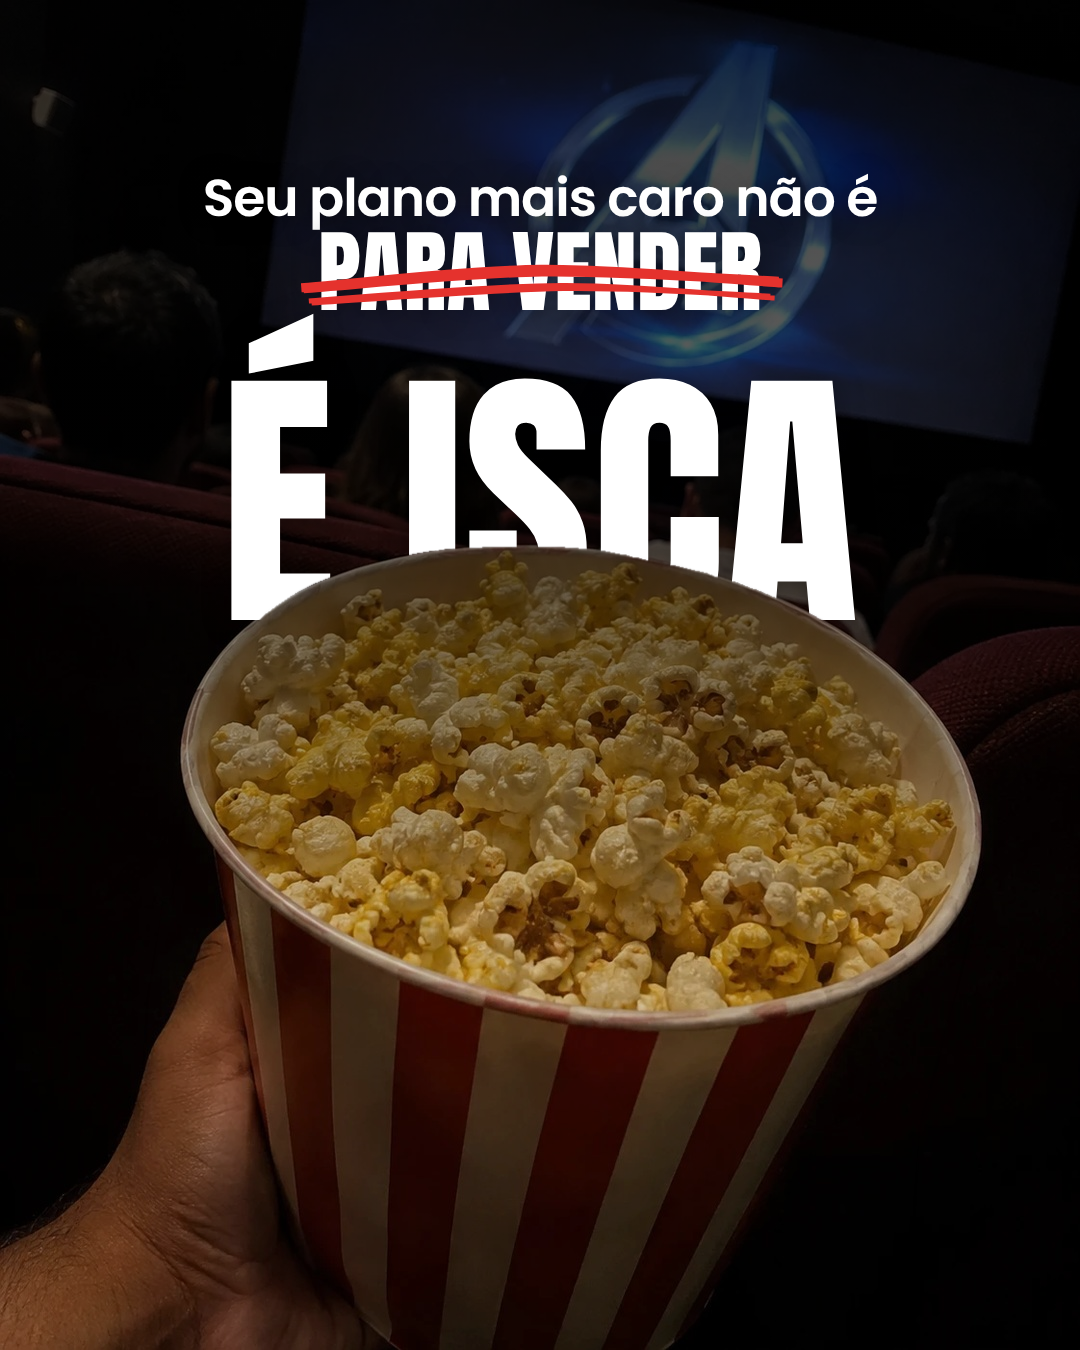
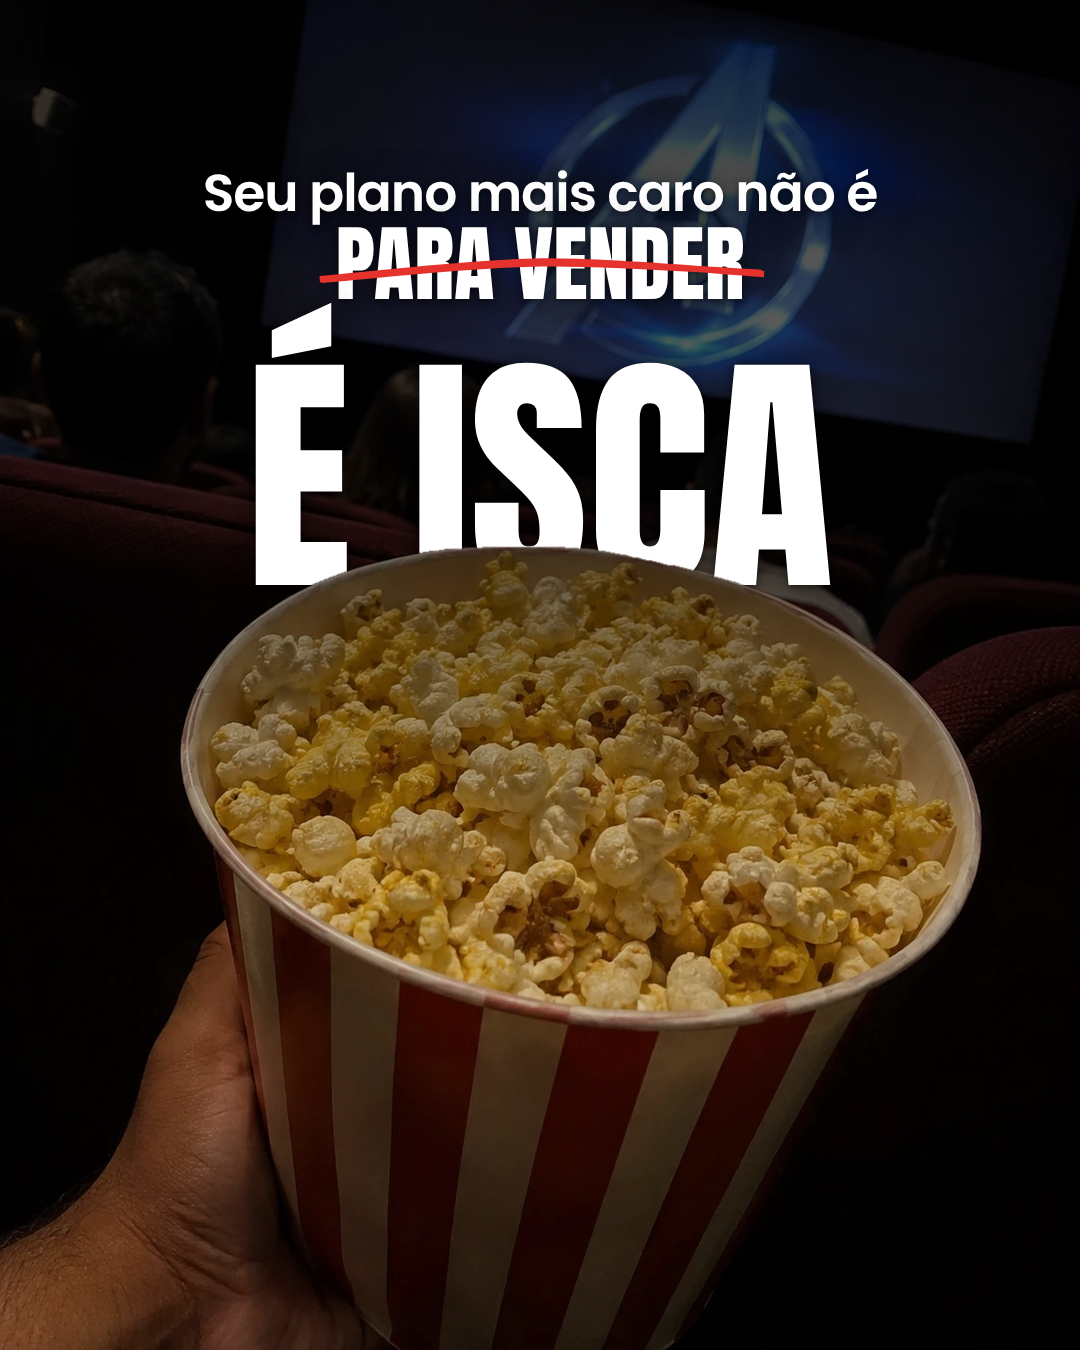
Legibilidade: ganchos em Poppins, subtítulos maiores, CTA com mais ênfase e capa 06 com menos sobreposição
Claude-Session: https://claude.ai/code/session_01CR2zLXebwu2nvAjBiSDjK9

Changed region(s): [[0.1833, 0.1244, 0.825, 0.4667]]

diff --git a/carrossel/index.html b/carrossel/index.html
@@ -107,8 +107,8 @@ body.render .frame .num{display:none}
 .pics{display:flex;gap:20px;margin-top:44px}
 .body.flow{top:150px;bottom:150px;left:128px;right:128px;justify-content:flex-start;padding-bottom:0}
 .flow .ttl{font-size:64px}
-.flow .st{font:600 31px/1.3 Poppins,sans-serif;letter-spacing:-.015em;color:var(--body);max-width:100%;margin-top:18px}
-.flow .txt{font-size:31px;margin-top:38px}
+.flow .st{font:500 36px/1.4 Poppins,sans-serif;letter-spacing:-.005em;color:var(--body);max-width:780px;margin-top:26px;text-wrap:pretty}
+.flow .txt{font-size:34px;margin-top:36px}
 .draw{position:relative;width:100%;flex:1 1 auto;min-height:220px;max-height:430px;margin:auto 0}
 .spacer{flex:1 1 auto}
 .man .m1{font:700 100px/1.06 Poppins,sans-serif;letter-spacing:-.05em;color:var(--ink);margin-top:40px}
@@ -162,8 +162,9 @@ body.render .frame .num{display:none}
 .ex .exl{display:block;font:600 16px/1 Poppins,sans-serif;letter-spacing:.32em;text-transform:uppercase;color:var(--ac);margin-bottom:12px}
 .ovl{position:absolute;left:0;top:0;width:1080px;height:1350px;z-index:6;pointer-events:none;overflow:visible}
 .ovl text{font-family:Caveat,cursive;font-weight:600}
-.gancho{position:relative;z-index:5;margin-top:36px;align-self:flex-start;padding-right:84px;font:600 44px/1.1 Caveat,cursive;color:var(--ink);opacity:.9;max-width:100%}
+.gancho{position:relative;z-index:5;margin-top:40px;align-self:flex-start;padding-right:96px;font:600 36px/1.25 Poppins,sans-serif;letter-spacing:-.015em;color:var(--ink);max-width:100%}
 .hc,.hu{position:relative;white-space:nowrap}
+.hc{margin:0 .35em}
 .pics.first{margin-top:0;margin-bottom:48px}
 .pic{flex:1;min-width:0;border-radius:22px;overflow:hidden;background:#e6e6e6}
 .pic img{width:100%;height:100%;object-fit:cover;display:block}
@@ -172,9 +173,9 @@ body.render .frame .num{display:none}
 /* CTA / resumo */
 .ctt{font:700 86px/1.14 Poppins,sans-serif;letter-spacing:-.04em;margin:0;color:var(--ink)}
 .ctt em{font-style:italic}
-.ctpre{font:500 50px/1.15 Poppins,sans-serif;letter-spacing:-.03em;color:var(--muted);margin-bottom:22px}
-.ctx{margin-top:40px;font:400 31px/1.42 Poppins,sans-serif;color:var(--muted);max-width:560px}
-.cta{margin-top:70px;font:700 31px Poppins,sans-serif;letter-spacing:-.01em;color:var(--ink)}
+.ctpre{font:600 58px/1.15 Poppins,sans-serif;letter-spacing:-.03em;color:var(--ink);opacity:.62;margin-bottom:24px}
+.ctx{margin-top:44px;font:500 35px/1.4 Poppins,sans-serif;color:var(--body);max-width:720px}
+.cta{margin-top:60px;font:700 40px/1.3 Poppins,sans-serif;letter-spacing:-.015em;color:var(--ink);background:var(--exbg);border-radius:22px;padding:34px 40px}
 .cta em{color:var(--ac)}
 .avatar{width:132px;height:132px;border-radius:50%;overflow:hidden;margin-bottom:40px;border:4px solid var(--bg);box-shadow:0 0 0 2px var(--ac)}
 .avatar img{width:100%;height:100%;object-fit:cover}
@@ -320,7 +321,7 @@ const TIPOS = {
     ["desenho","sel","Desenho à mão",["","alvo","funil","bolhas","grafico","pipeline","linha","baloes","escada","balanca","cartoes","troca","sementes","enxada","nuvem","maos","despertador","broto"]],
     ["exemplo","area","Exemplo concreto (nota à mão)"],
     ["rotulos","text","Rótulos do desenho (separe com |)"],
-    ["gancho","area","Gancho para o próximo slide (letra de mão)"],
+    ["gancho","area","Gancho para o próximo slide"],
     ["rodape","text","Rodapé (opcional)"],
   ]},
   foto:{nome:"Foto cheia", campos:[
@@ -545,9 +546,10 @@ function drawAll(root){
       add(rc.curve([[b.x,y+4],[b.x+160,y-6],[b.x+320,y+2]],O({stroke:hl,strokeWidth:4.2,roughness:1.3})))});
     const g=sl.querySelector(".gancho");
     if(g){const b=offs(g,sl); const r=b.x+b.w, my=b.y+b.h*.55, v=+(g.dataset.v||0)%3;
-      if(v===0) head([[r-70,my+2],[r-38,my-6],[r-6,my+2]]);
-      else if(v===1) head([[r-72,my+8],[r-50,my-6],[r-28,my+6],[r-6,my-2]]);
-      else head([[r-72,my-10],[r-40,my+8],[r-6,my]]);
+      const ao={strokeWidth:3.4};
+      if(v===0) head([[r-80,my+2],[r-44,my-6],[r-6,my+2]],ao);
+      else if(v===1) head([[r-82,my+8],[r-58,my-6],[r-32,my+6],[r-6,my-2]],ao);
+      else head([[r-82,my-10],[r-44,my+8],[r-6,my]],ao);
     }
     // desenhos
     sl.querySelectorAll(".draw").forEach(d=>{

diff --git a/carrossel/capa-motor.html b/carrossel/capa-motor.html
@@ -123,8 +123,10 @@ window.loadCapa = async function(spec){
   // risco à mão
   els.forEach(({d,cfg,t},i)=>{ if(!cfg.strike) return; const r=d.getBoundingClientRect(); const fs=parseFloat(d.style.fontSize);
     const y=pos[i].base-fs*.36, rc=rough.svg(document.getElementById("sv")), sv=document.getElementById("sv");
-    sv.appendChild(rc.curve([[r.left-14,y+10],[r.left+r.width*.5,y-6],[r.right+18,y+4]],{stroke:spec.cor_risco||"#fff",strokeWidth:9,roughness:1.4,seed:4}));
-    sv.appendChild(rc.curve([[r.left-6,y+26],[r.left+r.width*.55,y+10],[r.right+10,y+20]],{stroke:spec.cor_risco||"#fff",strokeWidth:5,roughness:1.6,seed:9})); });
+    const fino=spec.risco_fino, w1=fino?Math.max(5,fs*.075):9;
+    sv.appendChild(rc.curve([[r.left-14,y+10],[r.left+r.width*.5,y-6],[r.right+18,y+4]],{stroke:spec.cor_risco||"#fff",strokeWidth:w1,roughness:fino?1:1.4,seed:4}));
+    if(!fino) sv.appendChild(rc.curve([[r.left-6,y+26],[r.left+r.width*.55,y+10],[r.right+10,y+20]],{stroke:spec.cor_risco||"#fff",strokeWidth:5,roughness:1.6,seed:9})); });
+  if(spec.sombra) document.querySelectorAll(".L>div:not(.pill)").forEach(d=>d.style.textShadow="0 2px 6px rgba(0,0,0,.45), 0 4px 34px rgba(0,0,0,.6)");
   // FADE: degradê preto do topo até um pouco abaixo do título (também escurece o recorte da pessoa)
   if(spec.fade ?? (spec.pb===true)){
     const tops=pos.filter(Boolean).map(p=>p.top), bots=pos.filter(Boolean).map(p=>p.bottom);

diff --git a/.claude/skills/carrossel/SKILL.md b/.claude/skills/carrossel/SKILL.md
@@ -23,13 +23,15 @@ Objetivo: máxima qualidade com o mínimo de tokens. **Não leia** `index.html`,
 
 ## Regras de estilo (aprovadas pelo usuário)
 - Público AAA, minimalista e elegante. Fundo branco na maioria; **1–2 slides** com `"tema":"escuro"` (verde Trives escuro, flat com granulado). Sem neon, sem logo, sem nome no topo, sem rodapé.
-- Fontes: Poppins (texto), Anton/Archivo (capa), Caveat (letra de mão). Margens 128 px laterais / 150 px vertical (automático).
+- Fontes: Poppins (texto), Anton/Archivo (capa), Caveat só em notas pequenas de ícone. Margens 128 px laterais / 150 px vertical (automático).
 - Capa: foto P&B com pretos profundos (preferência atual), **título grande**, pessoa recortada na frente da última linha. **Respiro:** margem 120 px nas laterais e 150 px no topo (`margem`, `margem_topo`); o título se ajusta à largura útil.
   Linhas encaixam sozinhas pela forma real das letras (acentos incluídos, sem encostar); se um acento bater, a linha de cima desliza até 90 px p/ a direita (`"encaixe": false` desliga).
   Legibilidade (**só em capas P&B**, com `"pb": true`): máscara preta em toda a foto (`mascara`, padrão 0.18) + fade preto do topo até abaixo do título (`fade_forca` 0.66, `fade_extra` 300 px; `"fade": false` desliga). O recorte recebe o mesmo escurecimento. Capas coloridas: só o sombreado leve do topo (`escurecer`, padrão 0.2). `escala` (padrão 1) reduz/aumenta o título inteiro.
   `espaco` (opcional, padrão 1) multiplica o espaço entre as linhas do título: 0.5 = mais junto, 1.5 = mais solto.
   Layouts: `riscado` (3 linhas: pequena · palavra riscada · gigante) · `padrao` (4: pequena espaçada · média · selo · gigante) · `dois-pesos` (3: pequena · fina · pesada) · `serifa` (3: pequena · itálico serifado · condensada).
-- Slide de conteúdo = título + subtítulo (1 linha) + 1 frase curta com `[[círculo]]`/`{{sublinhado}}` + desenho + **Na prática** (`exemplo`, 1–2 linhas, situação real) + **gancho** (1 linha, sem ponto final, abre curiosidade p/ o próximo).
+- Slide de conteúdo = título + subtítulo (1 linha) + 1 frase curta com `[[círculo]]`/`{{sublinhado}}` + desenho + **Na prática** (`exemplo`, 1–2 linhas, situação real) + **gancho** (1 linha de até ~34 caracteres, Poppins semibold + seta à mão, sem ponto final, abre curiosidade p/ o próximo).
+- **Legibilidade no celular é prioridade:** subtítulo 36 px peso 500, frase 34 px, gancho 36 px Poppins. Nunca voltar ganchos para letra cursiva. CTA: frase de abertura (`pre`) forte, título grande, `chamada` em caixa tingida.
+- Capa sobre fundo claro/movimentado: use `"sombra":true` (texto com sombra), `"risco_fino":true` (risco único proporcional, não esconde a palavra) e `"acento_abaixo":true` (acento do É não sobe ao lado da linha de cima). Objeto recortado na frente do título: cobrir no máx. ~15% da altura das letras.
 - Depois de dois-pontos: maiúscula (automático). Último slide sempre `cta` com palavra para comentar.
 - Não invente dados como se fossem reais; números de exemplo devem soar ilustrativos.
 
